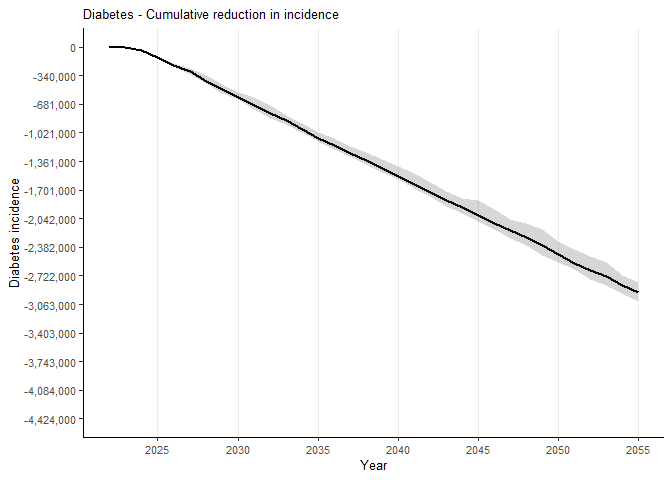
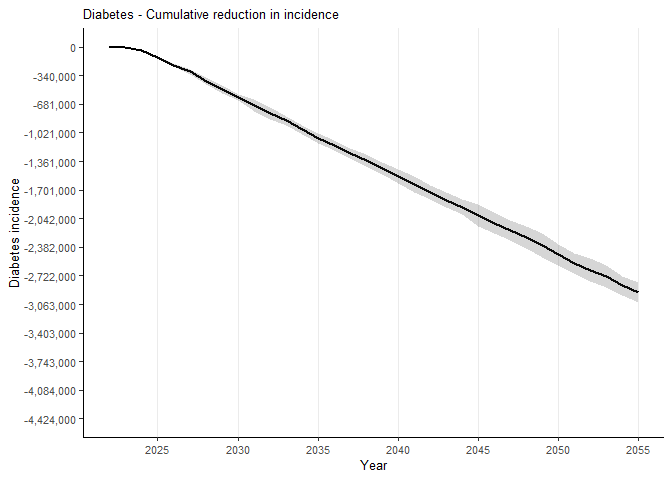
update gen_data_weighted_ds_cumdiff(), inc_cum(), and corresponding unit tests to include CI

diff --git a/README.md b/README.md
@@ -178,6 +178,25 @@ data_weighted_ds_wide_collapse <- gen_data_weighted_ds_cumdiff(data_weighted,
                                                                configname = "default")
 #> [1] "Loading the config file..."
 #> [1] "Processing the data..."
+#>  [1] "time"                            "simID"                          
+#>  [3] "totalcase_ihd_baseline"          "totalcase_ihd_intervention"     
+#>  [5] "totalcase_diabetes_baseline"     "totalcase_diabetes_intervention"
+#>  [7] "totalcase_stroke_baseline"       "totalcase_stroke_intervention"  
+#>  [9] "totalcase_asthma_baseline"       "totalcase_asthma_intervention"  
+#> [11] "totalcase_ckd_baseline"          "totalcase_ckd_intervention"     
+#> [13] "diff_inc_ihd"                    "diff_inc_db"                    
+#> [15] "diff_inc_stroke"                 "diff_inc_asthma"                
+#> [17] "diff_inc_ckd"                    "cumdiff_inc_ihd"                
+#> [19] "cumdiff_inc_db"                  "cumdiff_inc_stroke"             
+#> [21] "cumdiff_inc_asthma"              "cumdiff_inc_ckd"                
+#> [23] "cumdiff_inc_ihd_mean"            "cumdiff_inc_db_mean"            
+#> [25] "cumdiff_inc_stroke_mean"         "cumdiff_inc_asthma_mean"        
+#> [27] "cumdiff_inc_ckd_mean"            "cumdiff_inc_ihd_ci_low"         
+#> [29] "cumdiff_inc_db_ci_low"           "cumdiff_inc_stroke_ci_low"      
+#> [31] "cumdiff_inc_asthma_ci_low"       "cumdiff_inc_ckd_ci_low"         
+#> [33] "cumdiff_inc_ihd_ci_high"         "cumdiff_inc_db_ci_high"         
+#> [35] "cumdiff_inc_stroke_ci_high"      "cumdiff_inc_asthma_ci_high"     
+#> [37] "cumdiff_inc_ckd_ci_high"        
 #> [1] "Data processing complete."
 inc_cum("diabetes",
     data_weighted_ds_wide_collapse,
@@ -185,10 +204,6 @@ inc_cum("diabetes",
     scale_y_continuous_breaks = c(-4424000, -4084000, -3743000, -3403000, -3063000, -2722000, -2382000, -2042000, -1701000, -1361000, -1021000, -681000, -340000, 0),
     scale_y_continuous_labels = scales::comma(c(-4424000, -4084000, -3743000, -3403000, -3063000, -2722000, -2382000, -2042000, -1701000, -1361000, -1021000, -681000, -340000, 0))
   )
-#> Warning: Use of `data_weighted_ds_wide_collapse$time` is discouraged.
-#> ℹ Use `time` instead.
-#> Use of `data_weighted_ds_wide_collapse$time` is discouraged.
-#> ℹ Use `time` instead.
 ```
 
 <img src="man/figures/README-inc_cum_plot-1.png" width="100%" />
